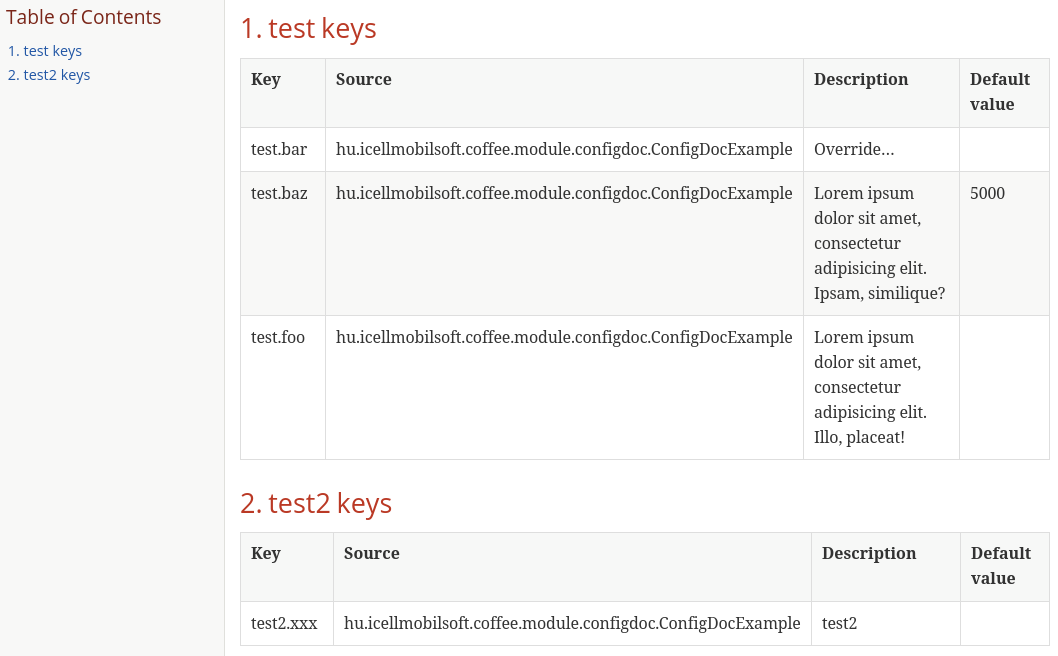
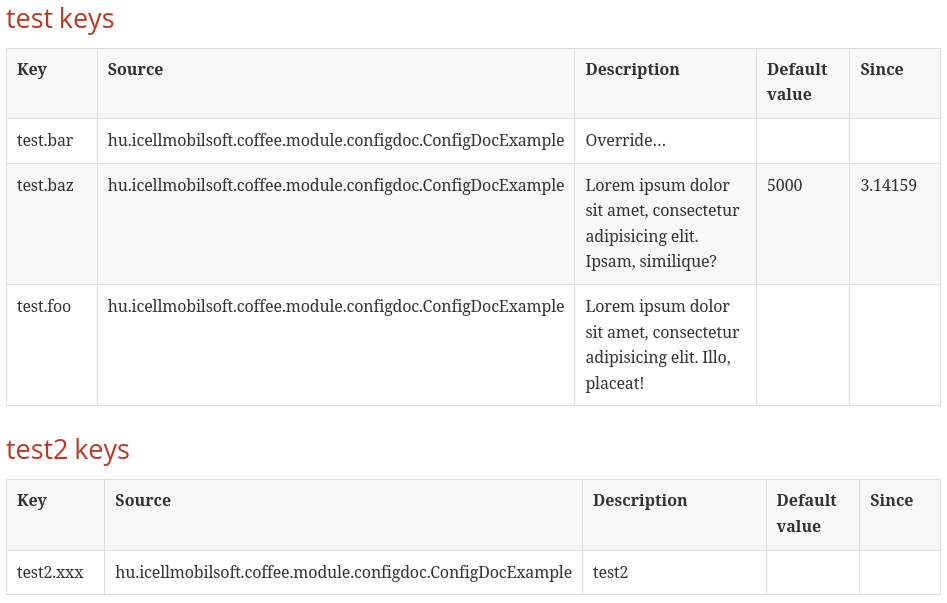
#278 ConfigDoc okositas since oszloppal

diff --git a/coffee-module/coffee-module-configdoc/src/main/java/hu/icellmobilsoft/coffee/module/configdoc/writer/impl/AsciiDocWriter.java b/coffee-module/coffee-module-configdoc/src/main/java/hu/icellmobilsoft/coffee/module/configdoc/writer/impl/AsciiDocWriter.java
@@ -26,6 +26,8 @@ import java.util.Objects;
 
 import org.apache.commons.lang3.StringUtils;
 
+import hu.icellmobilsoft.coffee.module.configdoc.config.ConfigDocColumn;
+import hu.icellmobilsoft.coffee.module.configdoc.config.ConfigDocConfig;
 import hu.icellmobilsoft.coffee.module.configdoc.data.DocData;
 import hu.icellmobilsoft.coffee.module.configdoc.writer.IDocWriter;
 
@@ -37,6 +39,17 @@ import hu.icellmobilsoft.coffee.module.configdoc.writer.IDocWriter;
  */
 public class AsciiDocWriter implements IDocWriter<DocData> {
     private static final String KEY_DELIMITER = ".";
+    private final ConfigDocConfig config;
+
+    /**
+     * Constructor with the config object
+     * 
+     * @param config
+     *            the config object
+     */
+    public AsciiDocWriter(ConfigDocConfig config) {
+        this.config = config;
+    }
 
     @Override
     public void write(List<DocData> dataList, Writer writer) throws IOException {
@@ -61,19 +74,81 @@ public class AsciiDocWriter implements IDocWriter<DocData> {
     private void writeHeader(Writer writer, String prefix) throws IOException {
         writer.write("=== ");
         writer.write(prefix);
-        writer.write(" keys\n[cols=\"1,1,3,1\",options=header,stripes=even]\n|===\n");
-        writer.write("|Key|Source|Description|Default value\n");
+        writer.write(" keys\n[cols=\"");
+        ConfigDocColumn[] columns = config.getColumns();
+        for (int i = 0; i < columns.length; i++) {
+            if (i > 0) {
+                writer.write(',');
+            }
+            writer.write(String.valueOf(getColumnWidth(columns[i])));
+        }
+        writer.write("\",options=header,stripes=even]\n|===\n");
+
+        for (ConfigDocColumn column : config.getColumns()) {
+            writer.write('|');
+            writer.write(getColumnDisplayName(column));
+        }
+        writer.write("\n");
     }
 
     private void writeLine(DocData docData, Writer writer) throws IOException {
-        writer.write('|');
-        writer.write(docData.getKey());
-        writer.write('|');
-        writer.write(docData.getSource());
-        writer.write('|');
-        writer.write(StringUtils.defaultString(docData.getDescription(), ""));
-        writer.write('|');
-        writer.write(StringUtils.defaultString(docData.getDefaultValue(), ""));
+        for (ConfigDocColumn column : config.getColumns()) {
+            writer.write('|');
+            writer.write(getColumnValue(docData, column));
+        }
         writer.write('\n');
     }
+
+    private String getColumnValue(DocData docData, ConfigDocColumn column) {
+        switch (column) {
+        case KEY:
+            return docData.getKey();
+        case SOURCE:
+            return docData.getSource();
+        case DESCRIPTION:
+            return StringUtils.defaultString(docData.getDescription(), "");
+        case DEFAULT_VALUE:
+            return StringUtils.defaultString(docData.getDefaultValue(), "");
+        case SINCE:
+            return StringUtils.defaultString(docData.getSince(), "");
+        default:
+            throw newInvalidColumnException(column);
+        }
+    }
+
+    private String getColumnDisplayName(ConfigDocColumn column) {
+        switch (column) {
+        case KEY:
+            return "Key";
+        case SOURCE:
+            return "Source";
+        case DESCRIPTION:
+            return "Description";
+        case DEFAULT_VALUE:
+            return "Default value";
+        case SINCE:
+            return "Since";
+        default:
+            throw newInvalidColumnException(column);
+        }
+    }
+
+    private int getColumnWidth(ConfigDocColumn column) {
+        switch (column) {
+        case KEY:
+        case SOURCE:
+        case DEFAULT_VALUE:
+        case SINCE:
+            return 1;
+        case DESCRIPTION:
+            return 3;
+        default:
+            throw newInvalidColumnException(column);
+        }
+    }
+
+    private IllegalStateException newInvalidColumnException(ConfigDocColumn column) {
+        return new IllegalStateException("Invalid column: " + column);
+    }
+
 }

diff --git a/coffee-module/coffee-module-configdoc/src/main/java/hu/icellmobilsoft/coffee/module/configdoc/processor/ConfigDocVisitor.java b/coffee-module/coffee-module-configdoc/src/main/java/hu/icellmobilsoft/coffee/module/configdoc/processor/ConfigDocVisitor.java
@@ -21,6 +21,8 @@ package hu.icellmobilsoft.coffee.module.configdoc.processor;
 
 import java.util.List;
 import java.util.Optional;
+import java.util.regex.Matcher;
+import java.util.regex.Pattern;
 
 import javax.annotation.processing.ProcessingEnvironment;
 import javax.lang.model.element.Element;
@@ -40,6 +42,7 @@ import hu.icellmobilsoft.coffee.module.configdoc.data.DocData;
  * @since 1.9.0
  */
 public class ConfigDocVisitor extends ElementKindVisitor9<Void, List<DocData>> {
+    private final Pattern sinceTagPattern = Pattern.compile("\n\\s*@since ([^\n]+)", Pattern.MULTILINE);
     private final ProcessingEnvironment processingEnv;
 
     /**
@@ -79,10 +82,29 @@ public class ConfigDocVisitor extends ElementKindVisitor9<Void, List<DocData>> {
 
         String key = (String) value;
         String source = element.getEnclosingElement().asType().toString();
-        String description = configDocAnnotation.map(ConfigDoc::description).filter(StringUtils::isNotBlank).orElseGet(() -> getJavaDoc(element));
-        String defaultValue = configDocAnnotation.map(ConfigDoc::defaultValue).orElse(null);
+        Optional<String> descriptionOpt = configDocAnnotation.map(ConfigDoc::description).filter(StringUtils::isNotBlank);
+        String defaultValue = configDocAnnotation.map(ConfigDoc::defaultValue).filter(StringUtils::isNotBlank).orElse(null);
+        String since = configDocAnnotation.map(ConfigDoc::since).filter(StringUtils::isNotBlank).orElse(null);
 
-        dataList.add(new DocData(key, source, description, defaultValue));
+        if (descriptionOpt.isPresent()) {
+            dataList.add(new DocData(key, source, descriptionOpt.get(), defaultValue, since));
+            return;
+        }
+
+        dataList.add(createDataFromJavaDoc(element, key, source, defaultValue, since));
+    }
+
+    private DocData createDataFromJavaDoc(VariableElement element, String key, String source, String defaultValue, String since) {
+        String description = getJavaDoc(element);
+
+        Matcher matcher = sinceTagPattern.matcher(description);
+        if (matcher.find()) {
+            if (since == null) {
+                since = matcher.group(1);
+            }
+            description = matcher.replaceAll("");
+        }
+        return new DocData(key, source, description.trim(), defaultValue, since);
     }
 
     private String getJavaDoc(VariableElement element) {

diff --git a/coffee-module/coffee-module-configdoc/src/main/java/hu/icellmobilsoft/coffee/module/configdoc/config/ConfigDocConfig.java b/coffee-module/coffee-module-configdoc/src/main/java/hu/icellmobilsoft/coffee/module/configdoc/config/ConfigDocConfig.java
@@ -34,6 +34,7 @@ public class ConfigDocConfig {
     private static final String OUTPUT_FILE_NAME_KEY = CONFIG_PREFIX + "outputFileName";
     private static final String OUTPUT_TO_CLASS_PATH_KEY = CONFIG_PREFIX + "outputToClassPath";
     private static final String DYNAMIC_OUTPUT_FILE_NAME_KEY = CONFIG_PREFIX + "dynamicOutputFileName";
+    private static final String COLUMNS_KEY = CONFIG_PREFIX + "columns";
 
     /**
      * Default output path
@@ -53,17 +54,30 @@ public class ConfigDocConfig {
     private final String outputFileName;
     private final String dynamicOutputFileName;
     private final boolean outputToClassPath;
+    private final ConfigDocColumn[] columns;
 
     /**
      * Creates the config object based on properties
      *
-     * @param properties the map which contains the config properties
+     * @param properties
+     *            the map which contains the config properties
      */
     public ConfigDocConfig(Map<String, String> properties) {
         outputDir = properties.getOrDefault(OUTPUT_DIR_KEY, DEFAULT_OUTPUT_PATH);
         outputFileName = properties.getOrDefault(OUTPUT_FILE_NAME_KEY, DEFAULT_OUTPUT_FILE_NAME);
         dynamicOutputFileName = properties.getOrDefault(DYNAMIC_OUTPUT_FILE_NAME_KEY, DEFAULT_DYNAMIC_OUTPUT_FILE_NAME);
         outputToClassPath = Boolean.parseBoolean(properties.getOrDefault(OUTPUT_TO_CLASS_PATH_KEY, Boolean.TRUE.toString()));
+
+        String columnsString = properties.get(COLUMNS_KEY);
+        if (columnsString == null) {
+            columns = ConfigDocColumn.values();
+        } else {
+            String[] split = columnsString.split("\\s*,\\s*");
+            columns = new ConfigDocColumn[split.length];
+            for (int i = 0; i < split.length; i++) {
+                columns[i] = ConfigDocColumn.valueOf(split[i].trim().toUpperCase());
+            }
+        }
     }
 
     /**
@@ -100,5 +114,14 @@ public class ConfigDocConfig {
      */
     public String getDynamicOutputFileName() {
         return dynamicOutputFileName;
+    }
+
+    /**
+     * Returns the columns of the generated table
+     * 
+     * @return the columns of the generated table
+     */
+    public ConfigDocColumn[] getColumns() {
+        return columns;
     }
 }

diff --git a/coffee-module/coffee-module-configdoc/src/main/java/hu/icellmobilsoft/coffee/module/configdoc/data/DocData.java b/coffee-module/coffee-module-configdoc/src/main/java/hu/icellmobilsoft/coffee/module/configdoc/data/DocData.java
@@ -32,6 +32,7 @@ public class DocData {
     private final String source;
     private final String description;
     private final String defaultValue;
+    private final String since;
 
     /**
      * Creates a {@code DocData} instance with the given arguments
@@ -44,12 +45,15 @@ public class DocData {
      *            the description of the configuration key
      * @param defaultValue
      *            the default value of the configuration key
+     * @param since
+     *            the version since the configuration key available
      */
-    public DocData(String key, String source, String description, String defaultValue) {
+    public DocData(String key, String source, String description, String defaultValue, String since) {
         this.key = key;
         this.source = source;
         this.description = description;
         this.defaultValue = defaultValue;
+        this.since = since;
     }
 
     /**
@@ -86,5 +90,15 @@ public class DocData {
      */
     public String getDefaultValue() {
         return defaultValue;
+    }
+
+    /**
+     * Returns the version since the configuration key available
+     *
+     * @return the version since the configuration key available
+     * @since 1.10.0
+     */
+    public String getSince() {
+        return since;
     }
 }

diff --git a/coffee-module/coffee-module-configdoc/src/main/java/hu/icellmobilsoft/coffee/module/configdoc/config/ConfigDocColumn.java b/coffee-module/coffee-module-configdoc/src/main/java/hu/icellmobilsoft/coffee/module/configdoc/config/ConfigDocColumn.java
@@ -17,31 +17,33 @@
  * limitations under the License.
  * #L%
  */
-package hu.icellmobilsoft.coffee.module.configdoc.writer;
-
-import java.io.IOException;
-import java.io.Writer;
-import java.util.List;
+package hu.icellmobilsoft.coffee.module.configdoc.config;
 
 /**
- * Writes the collected annotation data
+ * Config doc columns
  *
- * @param <T>
- *            the type parameter for data POJO
  * @author martin.nagy
- * @since 1.9.0
+ * @since 1.10.0
  */
-public interface IDocWriter<T> {
-
+public enum ConfigDocColumn {
     /**
-     * Writes the collected annotation data to the passed {@link Writer}.
-     *
-     * @param dataList
-     *            the collected data to be written
-     * @param writer
-     *            the writer
-     * @throws IOException
-     *             If an I/O error occurs
+     * the configuration key
      */
-    void write(List<T> dataList, Writer writer) throws IOException;
+    KEY,
+    /**
+     * the source class where the configuration key can be found
+     */
+    SOURCE,
+    /**
+     * the description of the configuration key
+     */
+    DESCRIPTION,
+    /**
+     * the default value of the configuration key
+     */
+    DEFAULT_VALUE,
+    /**
+     * the version since the configuration key available
+     */
+    SINCE,
 }

diff --git a/coffee-module/coffee-module-configdoc/src/main/java/hu/icellmobilsoft/coffee/module/configdoc/processor/DynamicConfigTemplateProcessor.java b/coffee-module/coffee-module-configdoc/src/main/java/hu/icellmobilsoft/coffee/module/configdoc/processor/DynamicConfigTemplateProcessor.java
@@ -46,6 +46,7 @@ import org.apache.commons.collections.MapUtils;
 import com.google.auto.service.AutoService;
 
 import hu.icellmobilsoft.coffee.module.configdoc.DynamicConfigTemplate;
+import hu.icellmobilsoft.coffee.module.configdoc.config.ConfigDocConfig;
 import hu.icellmobilsoft.coffee.module.configdoc.data.DocData;
 import hu.icellmobilsoft.coffee.module.configdoc.writer.IDocWriter;
 import hu.icellmobilsoft.coffee.module.configdoc.writer.impl.AsciiDocWriter;
@@ -72,10 +73,11 @@ public class DynamicConfigTemplateProcessor extends AbstractProcessor {
 
     private void writeDataListSorted(String fileName, List<DocData> lDataList) {
         if (CollectionUtils.isNotEmpty(lDataList)) {
+            ConfigDocConfig config = new ConfigDocConfig(processingEnv.getOptions());
             List<DocData> sortedList = new ArrayList<>(
                     lDataList.stream().collect(Collectors.toMap(DocData::getKey, Function.identity(), (o1, o2) -> o2)).values());
             sortedList.sort(Comparator.comparing(DocData::getKey));
-            writeToFile(sortedList, new AsciiDocWriter(), fileName);
+            writeToFile(sortedList, new AsciiDocWriter(config), fileName);
         }
     }
 

diff --git a/coffee-module/coffee-module-configdoc/src/test/java/hu/icellmobilsoft/coffee/module/configdoc/ConfigDocTest.java b/coffee-module/coffee-module-configdoc/src/test/java/hu/icellmobilsoft/coffee/module/configdoc/ConfigDocTest.java
@@ -48,10 +48,17 @@ class ConfigDocTest {
         assertNotNull(generatedFileUrl);
 
         String generatedFile = Files.readString(Paths.get(generatedFileUrl.toURI()));
+
+        // key column
         assertTrue(generatedFile.contains("test.foo"));
         assertTrue(generatedFile.contains("test.bar"));
         assertTrue(generatedFile.contains("test.baz"));
         assertTrue(generatedFile.contains("test2.xxx"));
+
+        // description column
         assertTrue(generatedFile.contains("Override..."));
+
+        // since column
+        assertTrue(generatedFile.contains("3.14159"));
     }
 }

diff --git a/coffee-module/coffee-module-configdoc/src/main/java/hu/icellmobilsoft/coffee/module/configdoc/processor/ConfigDocProcessor.java b/coffee-module/coffee-module-configdoc/src/main/java/hu/icellmobilsoft/coffee/module/configdoc/processor/ConfigDocProcessor.java
@@ -67,7 +67,7 @@ public class ConfigDocProcessor extends AbstractProcessor {
             dataList = new ArrayList<>(dataList.stream().collect(Collectors.toMap(DocData::getKey, Function.identity(), (o1, o2) -> o2)).values());
             dataList.sort(Comparator.comparing(DocData::getKey));
 
-            writeToFile(dataList, new AsciiDocWriter(), config);
+            writeToFile(dataList, new AsciiDocWriter(config), config);
         }
 
         return true;

diff --git a/coffee-module/coffee-module-configdoc/src/main/java/hu/icellmobilsoft/coffee/module/configdoc/ConfigDoc.java b/coffee-module/coffee-module-configdoc/src/main/java/hu/icellmobilsoft/coffee/module/configdoc/ConfigDoc.java
@@ -57,4 +57,12 @@ public @interface ConfigDoc {
      */
     String defaultValue() default "";
 
+    /**
+     * (Optional) the version since the configuration key available
+     * 
+     * @return the version since the configuration key available
+     * @since 1.10.0
+     */
+    String since() default "";
+
 }

diff --git a/coffee-module/coffee-module-configdoc/src/test/java/hu/icellmobilsoft/coffee/module/configdoc/ConfigDocExample.java b/coffee-module/coffee-module-configdoc/src/test/java/hu/icellmobilsoft/coffee/module/configdoc/ConfigDocExample.java
@@ -53,6 +53,8 @@ public interface ConfigDocExample {
 
     /**
      * Lorem ipsum dolor sit amet, consectetur adipisicing elit. Ipsam, similique?
+     * 
+     * @since 3.14159
      */
     @ConfigDoc(defaultValue = "5000")
     String baz = PREFIX + "baz";
